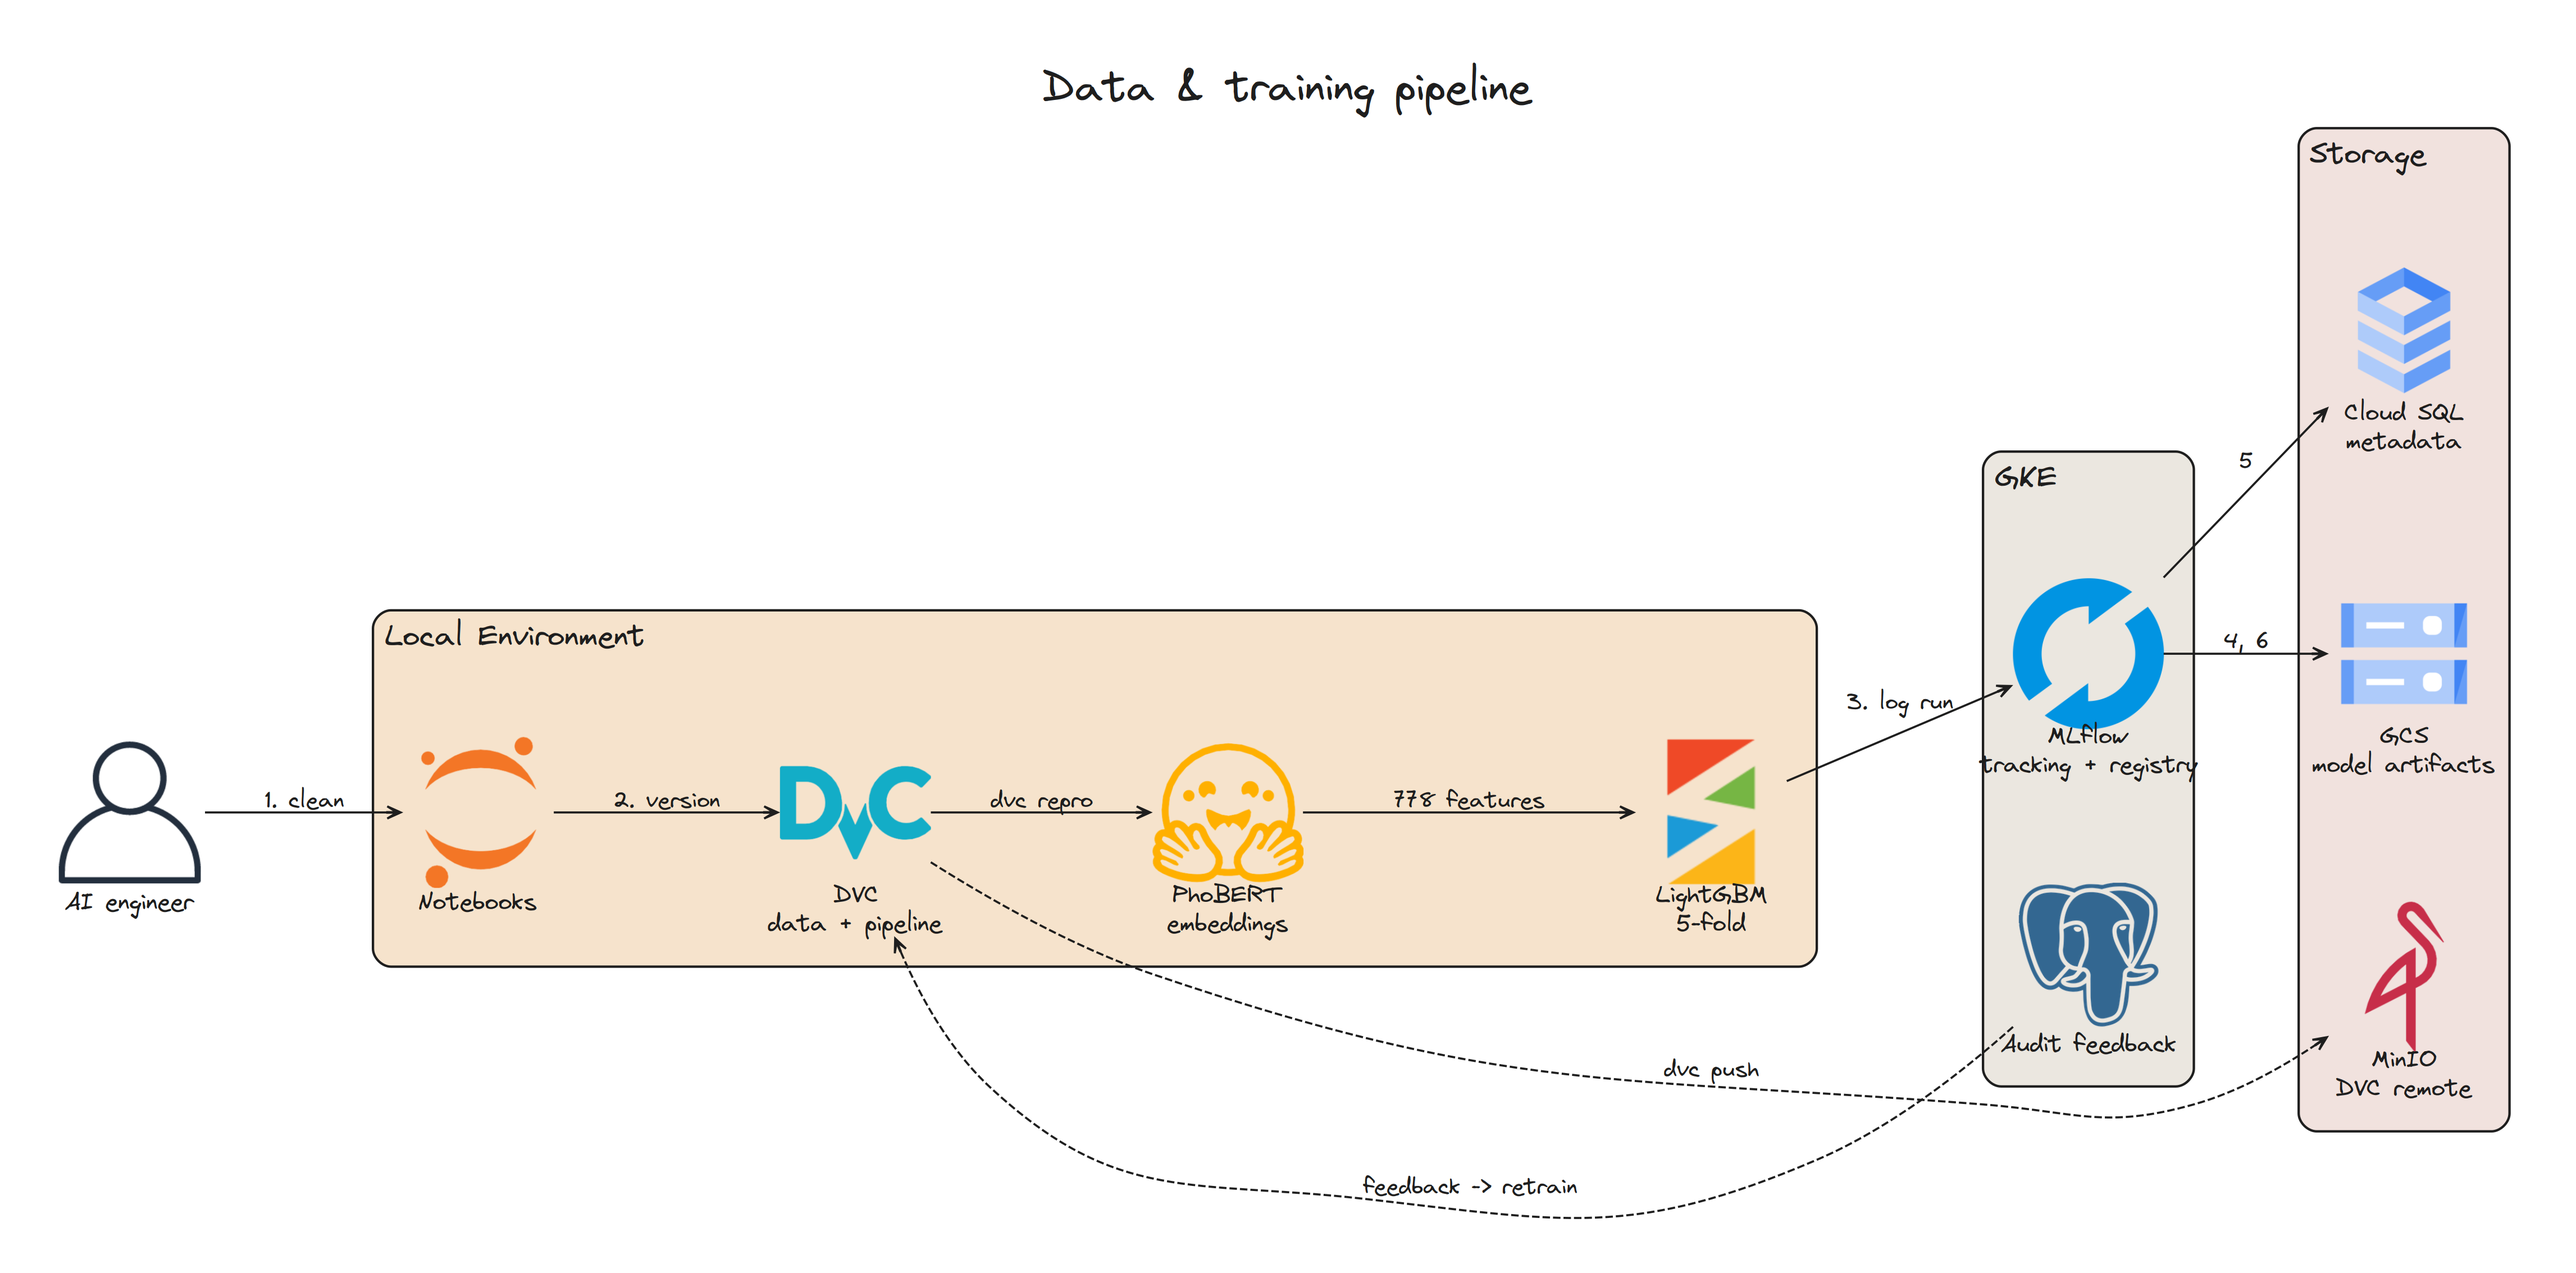
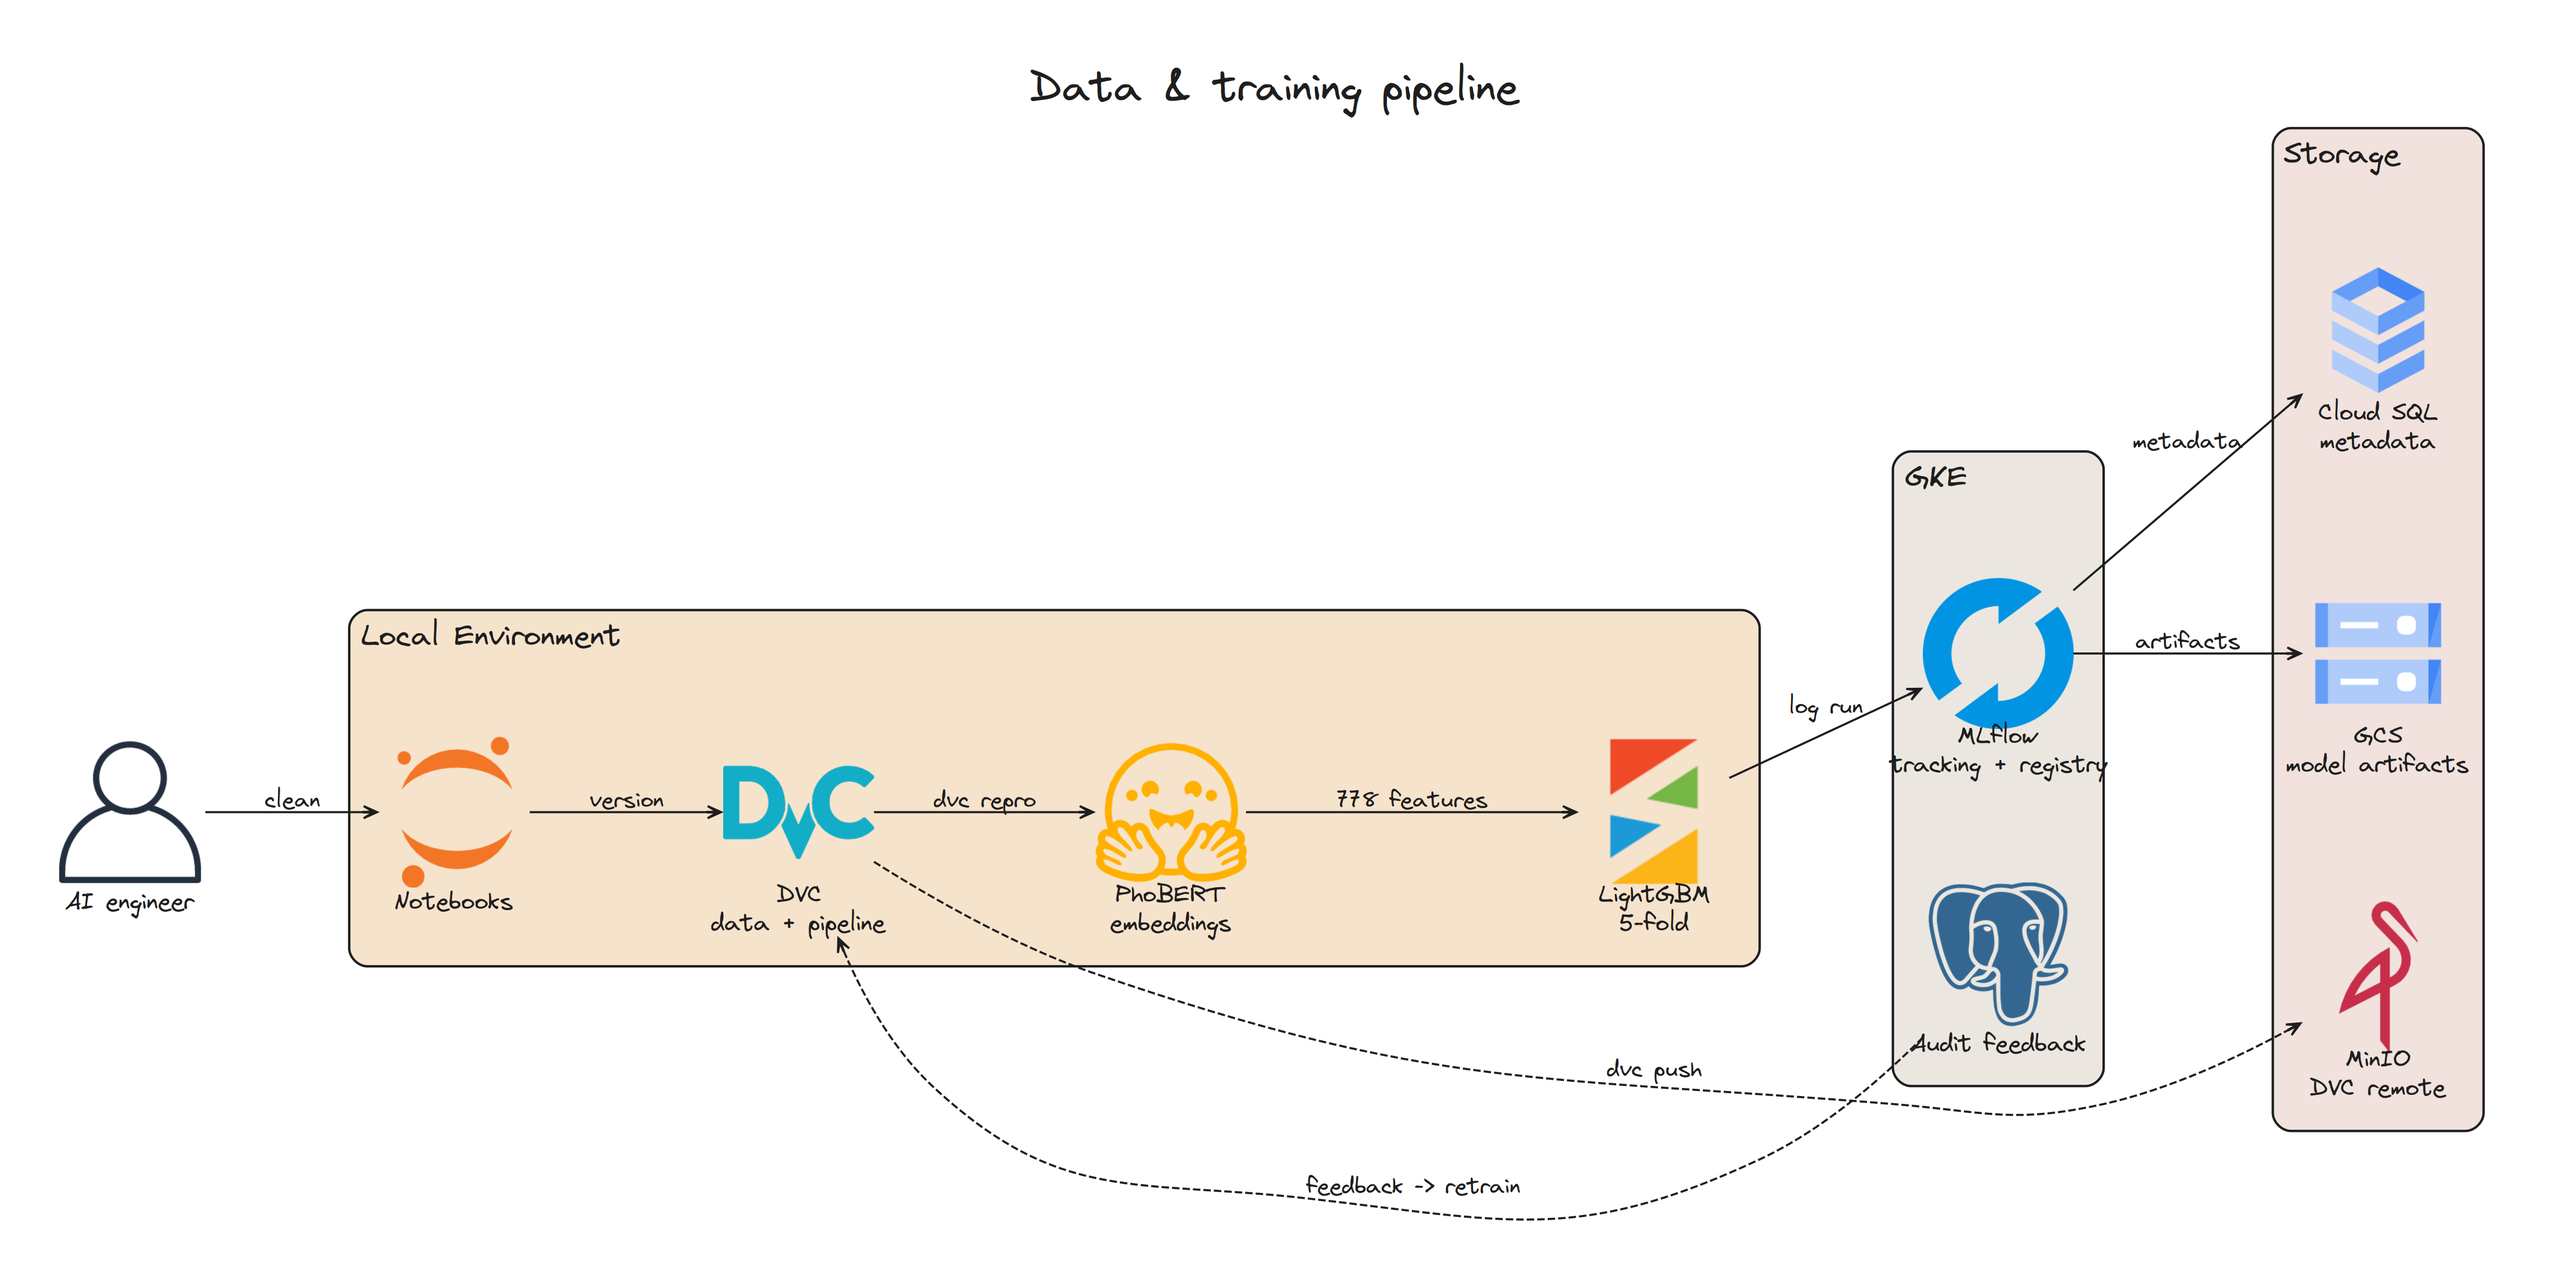
ci: run CI on GitHub-hosted runners; fix the checks that could never pass
- the self-hosted runner on the dev machine is registered to the old repo
  (nhnammldlnlpcvrs/vietnamese-llm-hallucination-detection), so every job here
  sat in "queued" until cancelled. test, web, packages and build now use
  ubuntu-latest (free for this public repo)
- test: pytest on setup-python + requirements/ci.txt instead of the CI image,
  which lacked applications/rag-demo and infrastructure/ (tests read both)
- build: push with GITHUB_TOKEN (packages: write), gha build cache, free disk
  space; drop the MLflow pull into artifacts/model_store, which no Dockerfile
  copies
- trigger-deploy: stays on the self-hosted runner (Jenkins lives there), now
  gated by the repo variable ENABLE_CD; skipped while GKE has no budget
- Dockerfile.backend: drop mlflow==2.11.3; it cannot install with kserve 0.16
  (protobuf <5 vs >=5.27) and the backend never imports mlflow
- test_repo_paths: DVC-restored paths (pointers and stage outputs) are not
  broken references; a real typo is still caught
- diagrams: arrow labels without step numbers

Verified in a clean checkout: 131 passed + 2 skipped (coverage 87.7%); web
lint/check/test/build and the packages job pass.

diff --git a/docs/diagrams/architecture.py b/docs/diagrams/architecture.py
@@ -162,10 +162,10 @@ def data_training():
             gcs = GCS("GCS\nmodel artifacts")
             minio = icon("minio", "MinIO\nDVC remote")
 
-        engineer >> flow("1. clean") >> notebook >> flow("2. version") >> dvc
-        dvc >> flow("dvc repro") >> phobert >> flow("778 features") >> lgbm >> flow("3. log run") >> mlflow
-        mlflow >> flow("5") >> sql
-        mlflow >> flow("4, 6") >> gcs
+        engineer >> flow("clean") >> notebook >> flow("version") >> dvc
+        dvc >> flow("dvc repro") >> phobert >> flow("778 features") >> lgbm >> flow("log run") >> mlflow
+        mlflow >> flow("metadata") >> sql
+        mlflow >> flow("artifacts") >> gcs
         lgbm >> place() >> audits
         mlflow >> place() >> minio
         dvc >> flow("dvc push", side=True, style="dashed") >> minio
@@ -186,8 +186,8 @@ def serving():
         with group("Storage", STORAGE):
             gcs = GCS("GCS\nmodel")
 
-        clients >> flow("14") >> nginx >> flow("15") >> api >> flow("text") >> transformer
-        transformer >> flow("778 features") >> predictor << flow("12. mount") << gcs
+        clients >> flow("request") >> nginx >> flow("route") >> api >> flow("text") >> transformer
+        transformer >> flow("778 features") >> predictor << flow("mount") << gcs
         predictor >> flow("probabilities", side=True, style="dashed") >> transformer
         transformer >> flow("verdict", side=True, style="dashed") >> api
         api >> db
@@ -232,10 +232,10 @@ def ci_cd():
             helm = Helm("Helm")
             gke = GKE("hallucination-prod")
 
-        engineer >> flow("7. push") >> github >> flow("8") >> ci >> flow("main") >> cd
-        cd >> flow("11, 13") >> helm >> gke
+        engineer >> flow("push") >> github >> flow("trigger") >> ci >> flow("main") >> cd
+        cd >> flow("deploy") >> helm >> gke
         cd << flow("model") << mlflow
-        ci >> flow("9. image") >> registry >> flow("10. pull", style="dashed") >> gke
+        ci >> flow("image") >> registry >> flow("pull", style="dashed") >> gke
         github >> flow("web", style="dashed") >> vercel
 
 
@@ -253,8 +253,8 @@ def provisioning():
         with group("Local Environment", LOCAL):
             minikube = K8S("minikube\n(local test)")
 
-        engineer >> flow("1. provision") >> terraform >> flow("2. bootstrap") >> ansible
-        ansible >> flow("3. release") >> helm >> flow("backend,\nInferenceService") >> gke
+        engineer >> flow("provision") >> terraform >> flow("bootstrap") >> ansible
+        ansible >> flow("release") >> helm >> flow("backend,\nInferenceService") >> gke
         helm >> place() >> sql
         helm >> flow("same chart", style="dashed") >> minikube
         terraform >> flow("creates GKE + Cloud SQL", side=True, style="dashed", lhead="cluster_GCP") >> sql
@@ -277,7 +277,7 @@ def observability():
 
         clients >> nginx >> api
         api >> flow("metrics") >> prom
-        api >> flow("16. traces") >> jaeger
+        api >> flow("traces") >> jaeger
         api >> flow("logs", side=True) >> loki
         api >> flow("audits", side=True) >> drift
         # 2 x 2 grid instead of one tall column: logs and drift sit one column to the right

diff --git a/tests/infra/test_repo_paths.py b/tests/infra/test_repo_paths.py
@@ -14,13 +14,30 @@ import yaml
 ROOT = os.path.abspath(os.path.join(os.path.dirname(__file__), "..", ".."))
 
 
+def dvc_managed() -> list:
+    """
+    Paths DVC restores (dvc pull / dvc repro) rather than git: .dvc pointer targets and stage outputs.
+    A clean checkout (CI) does not have them yet, and that is not a broken reference.
+    """
+    paths = [f[:-len(".dvc")] for f in glob.glob("**/*.dvc", recursive=True)]
+    for stage in yaml.safe_load(open("dvc.yaml"))["stages"].values():
+        paths += [o if isinstance(o, str) else next(iter(o)) for o in stage.get("outs", [])]
+    return [p.rstrip("/") for p in paths]
+
+
 def test_referenced_paths_exist(monkeypatch):
     monkeypatch.chdir(ROOT)
     missing = []
+    managed = dvc_managed()
 
     def need(path, where):
-        if not glob.glob(path):
-            missing.append(f"{where}: {path}")
+        if glob.glob(path):
+            return
+        p = path.rstrip("/")
+        # the path is, is inside, or contains something DVC restores
+        if any(p == m or p.startswith(m + "/") or m.startswith(p + "/") for m in managed):
+            return
+        missing.append(f"{where}: {path}")
 
 
     # Dockerfiles built from the repo root (compose context .. / CI context .)
